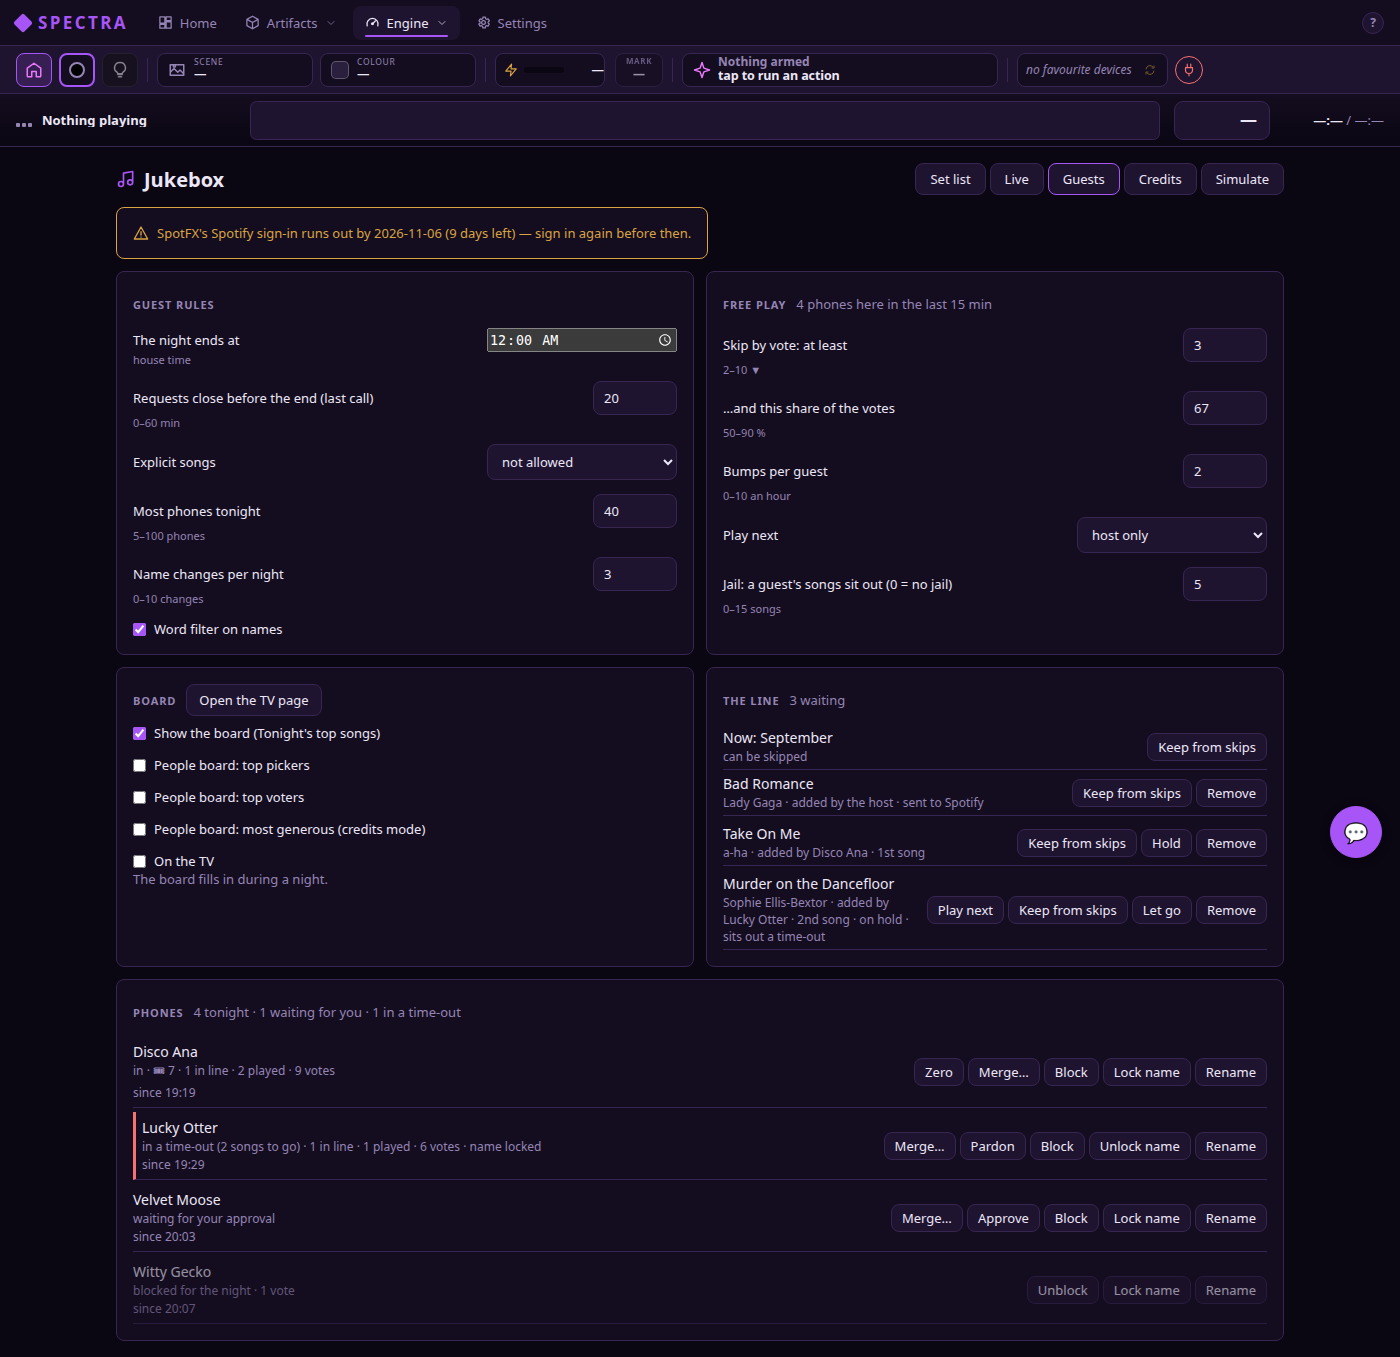
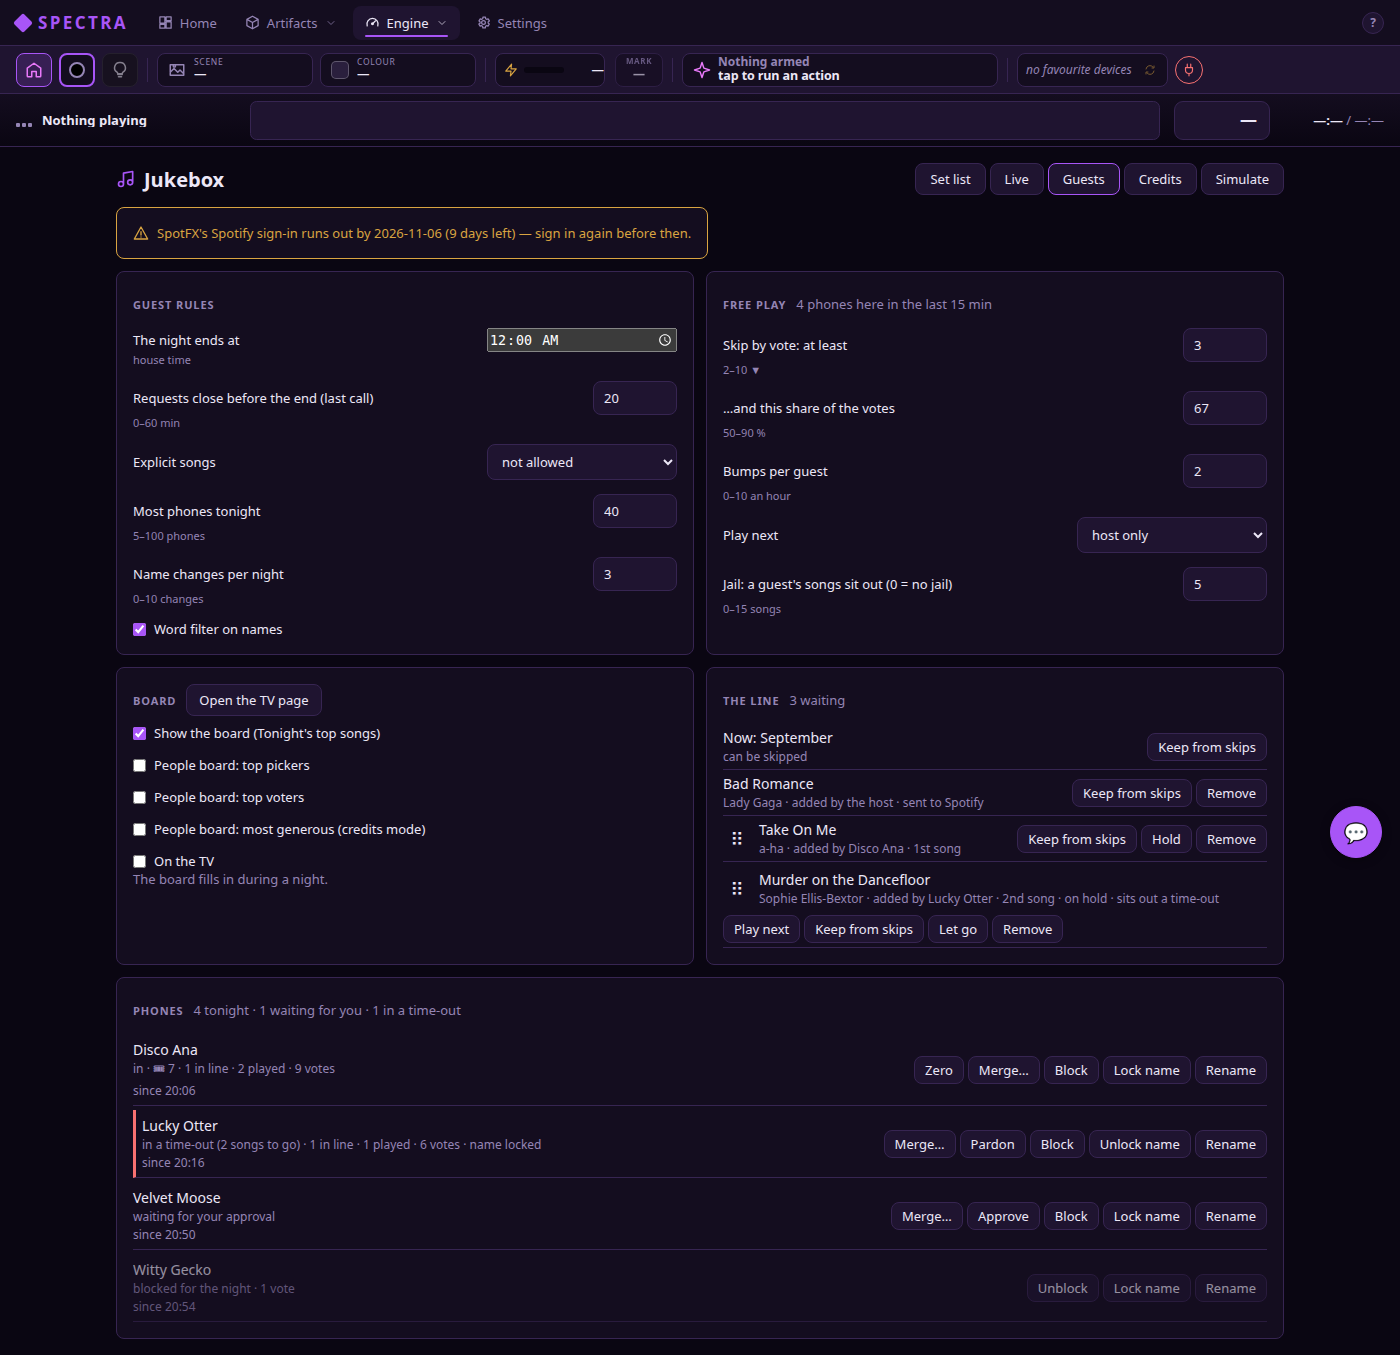
feat(jukebox): let the host drag the line on the Guests tab
§7's host view gives the line as "the draggable line with what each song
paid, holds and the jail". Row 1.3 keeps the Live tab read-only, and the
line's host controls (Play next, Hold, Remove) already live on the Guests
tab, so the drag lives there: each waiting song carries a ⠿ handle and
drops at any place among the waiting songs through the engine's own move
(nothing passes the song already sent to Spotify, which has no handle;
every song it jumps past counts as pushed back a place, the same count
Play next keeps).

diff --git a/spectra/web/src/jukebox/GuestsTab.tsx b/spectra/web/src/jukebox/GuestsTab.tsx
@@ -10,6 +10,7 @@
 import { useState } from 'react';
 import InfoTip from '../components/InfoTip';
 import { useToast } from '../components/Toast';
+import SortableList from '../lightshow/SortableList';
 import BoardLists from './BoardLists';
 import {
   lineRows, mergeCandidates, mergeWords, phoneActions, phoneLine, phoneTakes, sinceWords,
@@ -17,7 +18,7 @@ import {
 } from './jukeboxGuests';
 import {
   useGift, useGuests, useHoldEntry, useHostPhone, useJukeboxBoard, useJukeboxShow, useMergePhones,
-  usePlayNext, useRemoveEntry, useSaveShow, useSkipLock, useZeroPhone,
+  useMoveEntry, usePlayNext, useRemoveEntry, useSaveShow, useSkipLock, useZeroPhone,
 } from './queries';
 import type { GuestField, GuestPhone, JukeboxStatus, ShowConfig } from './types';
 
@@ -43,6 +44,7 @@ export default function GuestsTab({ status }: { status: JukeboxStatus | undefine
   const hold = useHoldEntry();
   const remove = useRemoveEntry();
   const playNext = usePlayNext();
+  const move = useMoveEntry();
   const skipLock = useSkipLock();
   const gift = useGift();
   const zero = useZeroPhone();
@@ -71,6 +73,38 @@ export default function GuestsTab({ status }: { status: JukeboxStatus | undefine
       onSave={(v) => save.mutate({ [f.key]: v }, { onError })}
       onBad={(reason) => toast(reason, 'error')} />
   ));
+
+  const waitingRows = rows.filter((r) => !r.sent);
+  const lineRowBody = (r: (typeof rows)[number]) => (
+    <>
+      <span className="jukebox-item-words">
+        <span className="jukebox-song-title">{r.entry.title || r.entry.uri}</span>
+        <span className="jukebox-song-artist">
+          {[r.entry.artist, `added by ${r.by}`, r.round, r.paid ? `paid 🎟 ${r.paid}` : '',
+            r.sent ? 'sent to Spotify' : '',
+            r.held ? 'on hold' : '', r.jailed ? 'sits out a time-out' : '',
+            r.skipLocked ? 'kept from skips' : '',
+            r.doomed ? 'removed: skipped as it starts' : ''].filter(Boolean).join(' · ')}
+        </span>
+      </span>
+      <span className="jukebox-guest-actions">
+        {r.canPlayNext && (
+          <button onClick={() => playNext.mutate(r.entry.id, { onError })}>Play next</button>
+        )}
+        <button onClick={() => skipLock.mutate({ uri: r.entry.uri, locked: !r.skipLocked }, { onError })}>
+          {r.skipLocked ? 'Allow skips' : 'Keep from skips'}
+        </button>
+        {r.canHold && (
+          <button onClick={() => hold.mutate({ id: r.entry.id, held: !r.held }, { onError })}>
+            {r.held ? 'Let go' : 'Hold'}
+          </button>
+        )}
+        {!r.doomed && (
+          <button onClick={() => remove.mutate(r.entry.id, { onError })}>Remove</button>
+        )}
+      </span>
+    </>
+  );
 
   return (
     <div className="jukebox-grid">
@@ -139,39 +173,27 @@ export default function GuestsTab({ status }: { status: JukeboxStatus | undefine
             </span>
           </div>
         )}
-        {rows.length > 0 && (
+        {rows.some((r) => r.sent) && (
           <ol className="jukebox-next">
-            {rows.map((r) => (
-              <li key={r.entry.id} className={`jukebox-item ${r.sent ? 'jukebox' : 'set'}`}>
-                <span className="jukebox-item-words">
-                  <span className="jukebox-song-title">{r.entry.title || r.entry.uri}</span>
-                  <span className="jukebox-song-artist">
-                    {[r.entry.artist, `added by ${r.by}`, r.round, r.paid ? `paid 🎟 ${r.paid}` : '',
-                      r.sent ? 'sent to Spotify' : '',
-                      r.held ? 'on hold' : '', r.jailed ? 'sits out a time-out' : '',
-                      r.skipLocked ? 'kept from skips' : '',
-                      r.doomed ? 'removed: skipped as it starts' : ''].filter(Boolean).join(' · ')}
-                  </span>
-                </span>
-                <span className="jukebox-guest-actions">
-                  {r.canPlayNext && (
-                    <button onClick={() => playNext.mutate(r.entry.id, { onError })}>Play next</button>
-                  )}
-                  <button onClick={() => skipLock.mutate({ uri: r.entry.uri, locked: !r.skipLocked }, { onError })}>
-                    {r.skipLocked ? 'Allow skips' : 'Keep from skips'}
-                  </button>
-                  {r.canHold && (
-                    <button onClick={() => hold.mutate({ id: r.entry.id, held: !r.held }, { onError })}>
-                      {r.held ? 'Let go' : 'Hold'}
-                    </button>
-                  )}
-                  {!r.doomed && (
-                    <button onClick={() => remove.mutate(r.entry.id, { onError })}>Remove</button>
-                  )}
-                </span>
-              </li>
+            {rows.filter((r) => r.sent).map((r) => (
+              <li key={r.entry.id} className="jukebox-item jukebox">{lineRowBody(r)}</li>
             ))}
           </ol>
+        )}
+        {waitingRows.length > 0 && (
+          <SortableList
+            className="jukebox-next"
+            items={waitingRows}
+            getId={(r) => r.entry.id}
+            getLabel={(r) => r.entry.title || r.entry.uri}
+            onReorder={(from, to) => move.mutate({ id: waitingRows[from].entry.id, to }, { onError })}
+            renderItem={(r, _i, row) => (
+              <li ref={row.rowRef} style={row.rowStyle}
+                className={`jukebox-item set${row.isDragging ? ' dragging' : ''}`}>
+                {row.handle}
+                {lineRowBody(r)}
+              </li>
+            )} />
         )}
       </section>
 

diff --git a/spectra/web/src/help/helpContent.ts b/spectra/web/src/help/helpContent.ts
@@ -2465,7 +2465,7 @@ export const HELP_SECTIONS: HelpSection[] = [
         body: [
           'Guest rules: when tonight ends and how long before that requests close (last call), explicit songs (not allowed, allowed, or only after a set time), the most phones tonight, name changes per night and the word filter on names. Each saves on its own; a value outside its range is refused and nothing changes.',
           'Free play: the room\'s skip, bumps, play next and the jail (see Free play).',
-          'The line: every jukebox song still to play, who added it, whether it was their 1st or 2nd song and, in credits mode, what they paid. Play next moves a waiting song to the front of the waiting songs (when Free play\'s Play next is "host only", and always in credits mode); Keep from skips protects a song (see Keeping a song from skips; the song playing has its own row above the line); Hold keeps a song in its place while slots pass it (Let go puts it back in play); Remove takes it out (a song already sent to Spotify is skipped the moment it starts). A song whose guest is in a time-out says so.',
+          'The line: every jukebox song still to play, who added it, whether it was their 1st or 2nd song and, in credits mode, what they paid. Drag a waiting song by its ⠿ handle to any place among the waiting songs (nothing passes the song already sent to Spotify; every song it jumps past counts as pushed back a place). Play next moves a waiting song to the front of the waiting songs (when Free play\'s Play next is "host only", and always in credits mode); Keep from skips protects a song (see Keeping a song from skips; the song playing has its own row above the line); Hold keeps a song in its place while slots pass it (Let go puts it back in play); Remove takes it out (a song already sent to Spotify is skipped the moment it starts). A song whose guest is in a time-out says so.',
           'Phones: everyone at tonight\'s party, how they stand (on the welcome screen, in, in a time-out with the songs left or in jail until they break out, waiting for your approval, blocked) with their songs, votes, their ▼ count against the jail\'s bar and, in credits mode, the credits they hold. Approve lets a waiting phone in (with "New phones need my approval" on, on the Credits tab); in credits mode Give… gives that guest credits and Everyone +2 gives every phone at the party 2 (see Giving credits); Pardon ends a time-out now; Block takes a phone out for the night; Rename gives it a name of your choosing (your word, no filter); Lock name stops it changing its own.',
           'Each phone also says when it first opened the page tonight ("since 21:42"), so a new phone late in the night stands out. Zero and Merge… are for a guest who cleared their cookies or came back on a second phone (see Zero and merge a phone).',
           'Sonic can change the guest rules and the free-play rules and give credits (asking first, and only to a guest named exactly) but not approve, pardon, block, rename, zero or merge a phone: those act on a person by name, so they stay these buttons.',

diff --git a/spectra/web/src/jukebox/queries.ts b/spectra/web/src/jukebox/queries.ts
@@ -308,6 +308,24 @@ export function usePlayNext() {
   });
 }
 
+/** Drag a waiting song to place `to` among the waiting songs (the host's
+ *  own move: nothing passes the song already sent to Spotify). */
+export function useMoveEntry() {
+  const qc = useQueryClient();
+  return useMutation({
+    mutationFn: async ({ id, to }: { id: string; to: number }) => {
+      const r = await spotfxPost<{ status: string; detail?: string; line?: JukeboxStatus['line'] }>(
+        `/jukebox/line/${encodeURIComponent(id)}/move`, { to });
+      if (r.status === 'refused') throw new Error(r.detail || 'It could not move.');
+      return r;
+    },
+    onSuccess: (r) => {
+      if (r.line) qc.setQueryData<JukeboxStatus>(JUKEBOX_KEYS.status, (old) => (old ? { ...old, line: r.line! } : old));
+      qc.invalidateQueries({ queryKey: JUKEBOX_KEYS.status });
+    },
+  });
+}
+
 /** Keep a song from every skip tonight — the room's vote and a paid skip —
  * or let it be skipped again. */
 export function useSkipLock() {

diff --git a/AGENTS.md b/AGENTS.md
@@ -11280,7 +11280,9 @@ the engine only — no page, no guests. `services/jukebox/night.py`'s and
   is one event. Names only: no event or line row may carry a phone's code
   (the Live line now names who added each song — `jukeboxEconomy.ts`'s
   `liveLineWords`). Reads only, on the loop, so it never replays the ledger
-  (`verify()` is the report's). Spec: `tests/test_jukebox_economy_live.py`,
+  (`verify()` is the report's). §7's "draggable line" is the GUESTS tab's line (the
+  Live tab stays read-only, row 1.3): a waiting song drags by its ⠿ handle
+  through `night.move`, the same move Play next makes. Spec: `tests/test_jukebox_economy_live.py`,
   `check_jukebox_editor.mjs`; help `jukebox-economy`.
 - **NAMES**: the code says `program`, never `setlist` — SpotFX's existing
   Set Lists (`services/setlist_store.py`) is a different feature. Stores:
